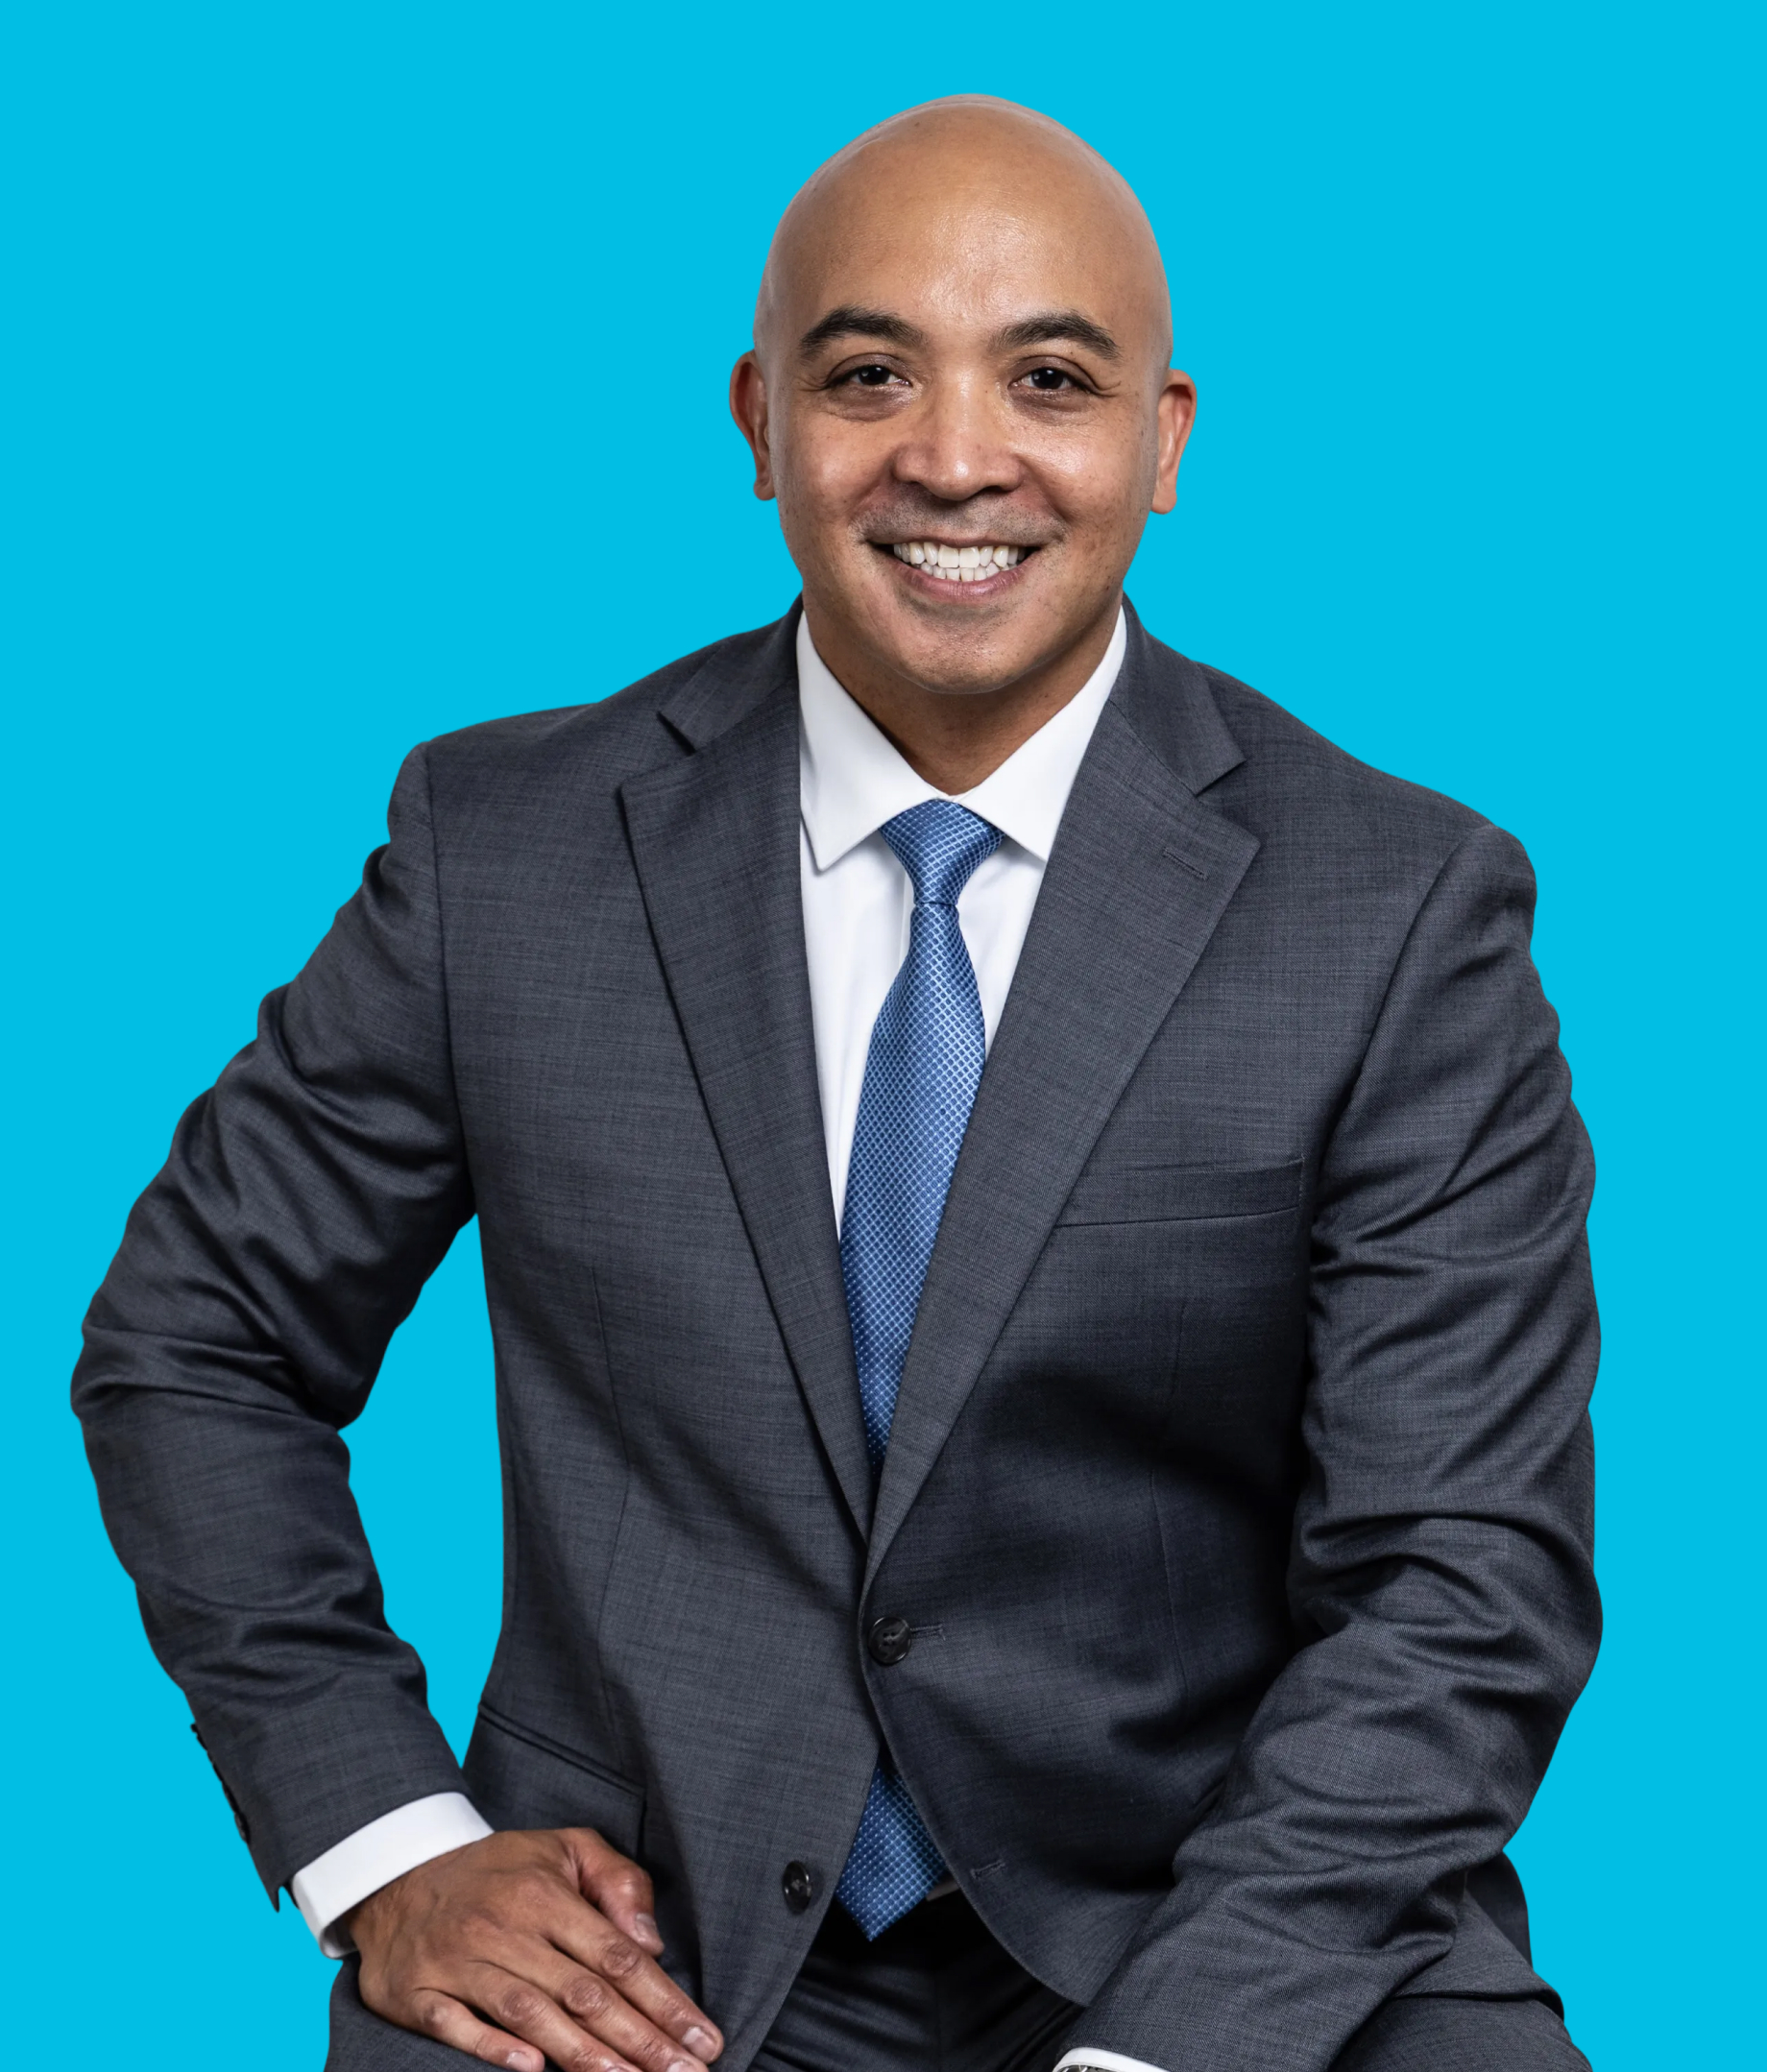
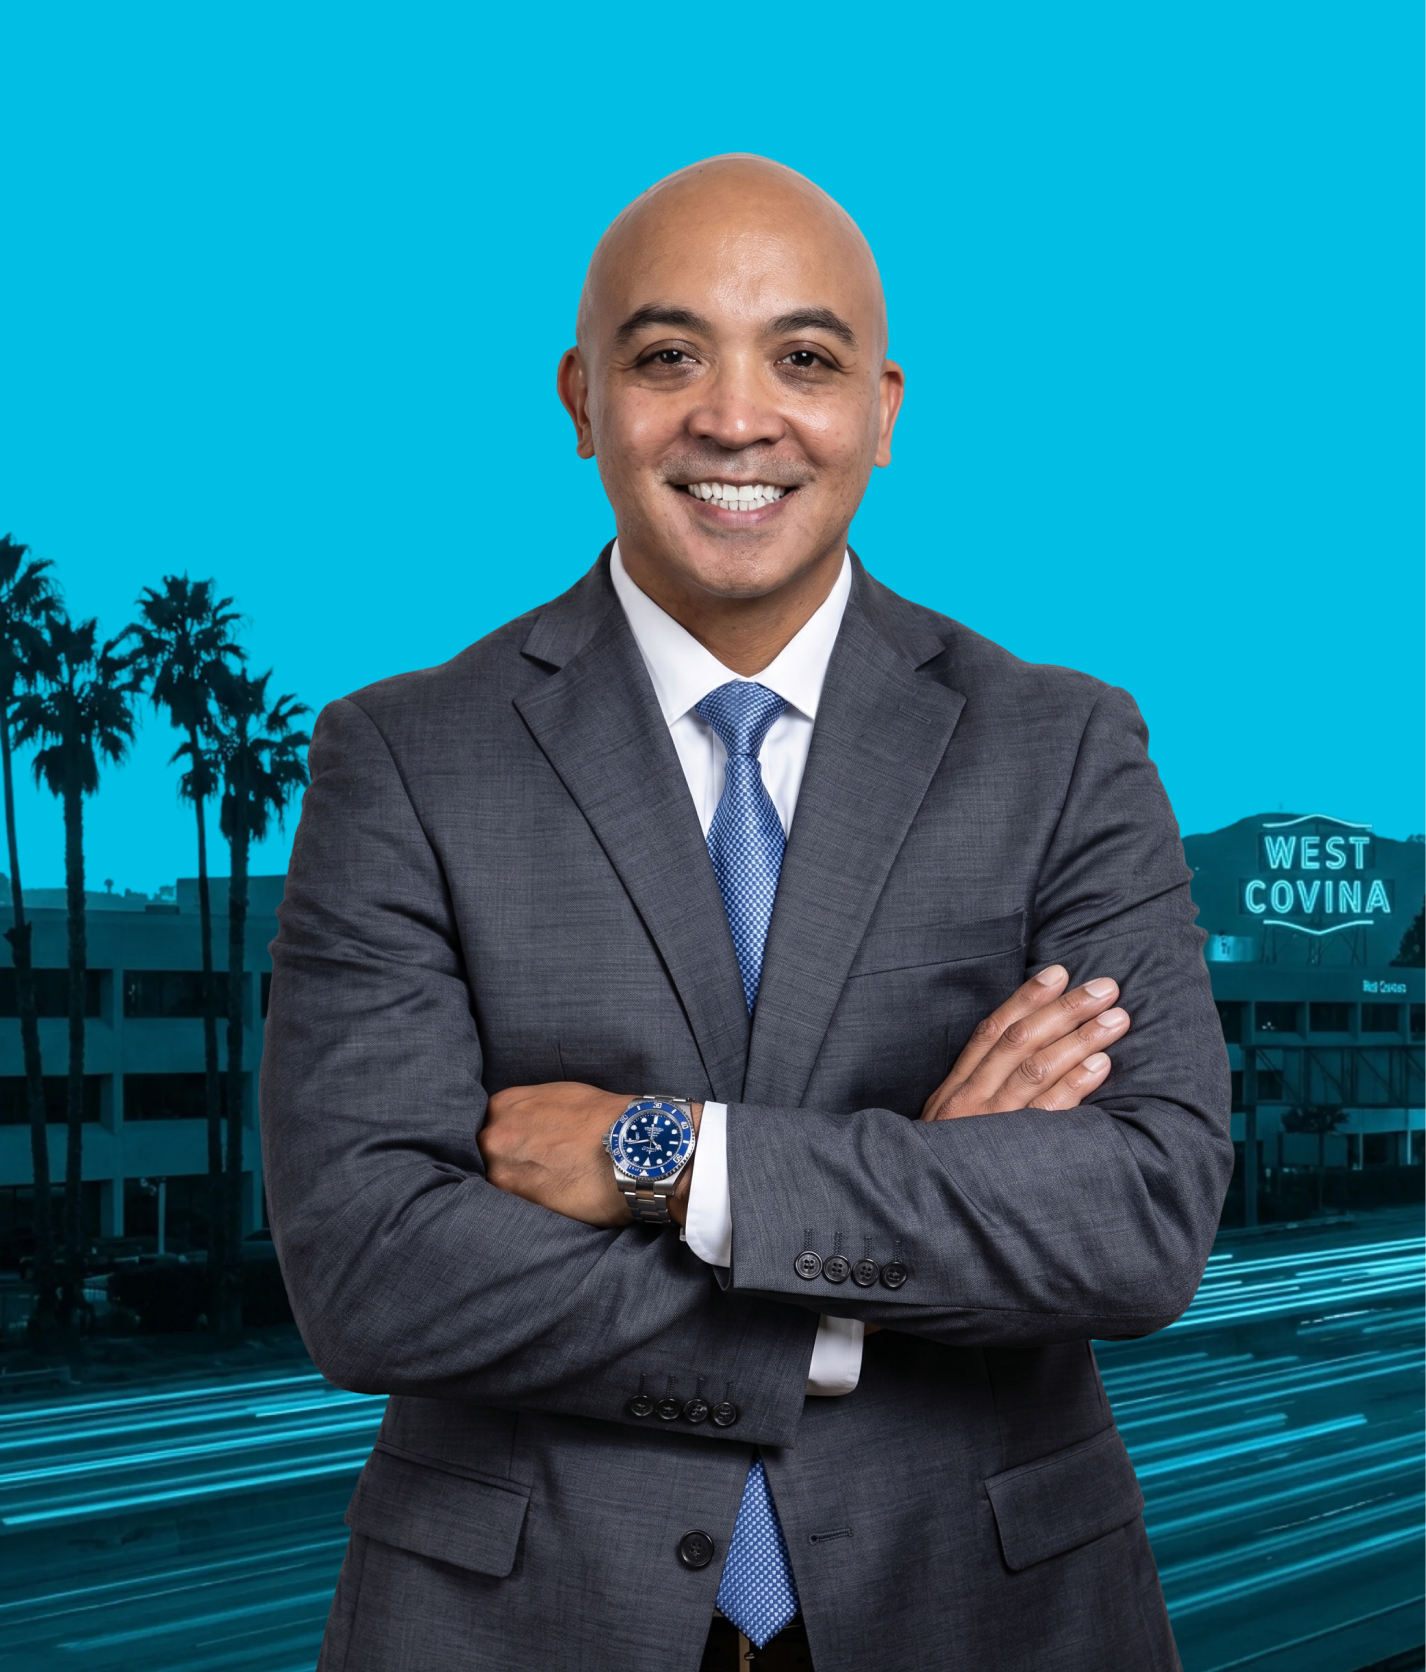
West Covina: rename podcast, nav, stats redesign, images
- Rename podcast to "Car Accident Playbook With Lem Garcia" across name,
  H1, meta title, and prose
- Nav: Episodes, Lem Garcia Law (firm site), About, Meet Lem Garcia (her
  site); Subscribe -> Contact button; new-tab handling on CTA
- Redesign StatsBanner into a balanced 4-stat band (rating, reviews,
  satisfaction, $100M+) with disclaimer as fine print
- About image -> about-bg.jpg; 1:1 episode hero art

diff --git a/src/themes/v1/components/StatsBanner.tsx b/src/themes/v1/components/StatsBanner.tsx
@@ -1,94 +1,90 @@
 'use client'
 
 import React from 'react'
-import { Star, ThumbsUp, Briefcase } from 'lucide-react'
+import { Car, MessageSquare, Star, ThumbsUp } from 'lucide-react'
 import { stats } from '@/data/siteData'
 
-const isPublishable = (text: string | undefined | null): text is string =>
-  !!text && text.trim() !== '' && !text.trim().startsWith('TODO')
-
-type StatCard = {
-  key: string
-  value: string
-  label: string
-  verb: string
-  bg: string
-  valueColor: string
-  iconColor: string
-  bodyColor: string
-  icon: React.ReactNode
-  iconFill?: boolean
+// Pull a leading metric token (e.g. "$100M+") out of a label so the real
+// number is the hero, with the remaining words as the caption.
+const splitLeadingMetric = (label?: string) => {
+  const m = /^(\$?[\d.,]+\s*[KMB]?\+?)\s+(.+)$/i.exec((label || '').trim())
+  return m ? { value: m[1].replace(/\s+/g, ''), label: m[2] } : null
 }
 
 const StatsBanner = () => {
-  const cards: StatCard[] = []
+  const recovery = splitLeadingMetric(stats.casesLabel)
 
-  if (stats.rating && Number(stats.rating) > 0) {
-    cards.push({
-      key: 'rating',
-      value: String(stats.rating),
-      label: 'Positive Reviews',
-      verb: isPublishable(stats.ratingVerbalization) ? stats.ratingVerbalization : '',
-      bg: 'bg-secondary',
-      valueColor: 'text-white',
-      iconColor: 'text-white',
-      bodyColor: 'text-white/85',
-      icon: <Star size={56} className="text-white" fill="currentColor" />,
-    })
+  const tiles = [
+    stats.rating
+      ? { value: String(stats.rating), label: 'Average Rating', Icon: Star }
+      : null,
+    stats.reviewCount
+      ? { value: String(stats.reviewCount), label: 'Client Reviews', Icon: MessageSquare }
+      : null,
+    stats.satisfactionRate && stats.satisfactionLabel
+      ? { value: `${stats.satisfactionRate}%`, label: stats.satisfactionLabel, Icon: ThumbsUp }
+      : null,
+    recovery && stats.casesVerbalization && !/TODO/i.test(stats.casesVerbalization)
+      ? { value: recovery.value, label: recovery.label, Icon: Car, outline: true }
+      : stats.casesHandled && stats.casesLabel
+        ? { value: `${stats.casesHandled}+`, label: stats.casesLabel, Icon: Car, outline: true }
+        : null,
+  ].filter(
+    (t): t is { value: string; label: string; Icon: typeof Star; outline?: boolean } => Boolean(t),
+  )
+
+  if (tiles.length === 0) {
+    return null
   }
 
-  if (stats.satisfactionRate && Number(stats.satisfactionRate) > 0 && stats.satisfactionLabel) {
-    cards.push({
-      key: 'satisfaction',
-      value: `${stats.satisfactionRate}%`,
-      label: stats.satisfactionLabel,
-      verb: isPublishable(stats.satisfactionVerbalization) ? stats.satisfactionVerbalization : '',
-      bg: 'bg-primary',
-      valueColor: 'text-secondary',
-      iconColor: 'text-secondary',
-      bodyColor: 'text-white/80',
-      icon: <ThumbsUp size={56} className="text-secondary" fill="currentColor" />,
-    })
-  }
+  const colsClass =
+    tiles.length <= 2
+      ? 'grid-cols-2 max-w-2xl'
+      : tiles.length === 3
+        ? 'grid-cols-1 sm:grid-cols-3 max-w-4xl'
+        : 'grid-cols-2 lg:grid-cols-4 max-w-5xl'
 
-  if (stats.casesHandled && Number(stats.casesHandled) > 0 && stats.casesLabel) {
-    cards.push({
-      key: 'cases',
-      value: `${stats.casesHandled}+`,
-      label: stats.casesLabel,
-      verb: isPublishable(stats.casesVerbalization) ? stats.casesVerbalization : '',
-      bg: 'bg-secondary',
-      valueColor: 'text-white',
-      iconColor: 'text-white',
-      bodyColor: 'text-white/85',
-      icon: <Briefcase size={56} className="text-white" />,
-    })
-  }
-
-  if (cards.length === 0) return null
-
-  const gridCols =
-    cards.length === 1 ? 'sm:grid-cols-1 md:grid-cols-1' :
-    cards.length === 2 ? 'sm:grid-cols-2 md:grid-cols-2' :
-    'sm:grid-cols-2 md:grid-cols-3'
+  const footnote = [stats.ratingVerbalization, stats.satisfactionVerbalization, stats.casesVerbalization]
+    .filter((t) => t && t.trim() && !/TODO/i.test(t))
+    .join('  ·  ')
 
   return (
-    <section className="bg-white py-0 md:py-12">
-      <div className="max-w-container mx-auto px-6 md:px-12">
-        <div className={`grid grid-cols-1 ${gridCols} gap-6`}>
-          {cards.map(card => (
-            <div key={card.key} className={`${card.bg} rounded-3xl px-6 py-8 md:px-5 md:py-10 text-left`}>
-              <div className="flex items-center justify-between mb-4 md:mb-6">
-                <span className={`${card.valueColor} text-4xl md:text-6xl font-bold`}>{card.value}</span>
-                {card.icon}
+    <section className="relative overflow-hidden bg-primary py-10 md:py-14">
+      {/* depth + accent ambience */}
+      <div aria-hidden className="absolute inset-0 bg-gradient-to-br from-[#1c2659] via-primary to-[#0d1338]" />
+      <div aria-hidden className="absolute -right-20 -top-28 h-96 w-96 rounded-full bg-secondary/15 blur-[110px]" />
+      <div aria-hidden className="absolute -bottom-32 -left-24 h-96 w-96 rounded-full bg-secondary/10 blur-[120px]" />
+      <div aria-hidden className="absolute inset-x-0 top-0 h-px bg-gradient-to-r from-transparent via-secondary/50 to-transparent" />
+
+      <div className="relative mx-auto max-w-container px-6 md:px-12">
+        <div className={`mx-auto grid ${colsClass} gap-x-6 gap-y-12`}>
+          {tiles.map(({ value, label, Icon, outline }) => (
+            <div key={label} className="group flex flex-col items-center text-center">
+              <div className="mb-5 inline-flex h-14 w-14 items-center justify-center rounded-2xl bg-secondary/15 text-secondary ring-1 ring-secondary/30 transition-colors duration-300 group-hover:bg-secondary group-hover:text-primary">
+                {outline ? (
+                  <Icon size={26} strokeWidth={2} />
+                ) : (
+                  <Icon size={24} fill="currentColor" strokeWidth={0} />
+                )}
               </div>
-              <p className="text-white text-xl md:text-2xl font-bold mb-3">{card.label}</p>
-              {card.verb && (
-                <p className={`${card.bodyColor} text-sm md:text-base leading-relaxed`}>{card.verb}</p>
-              )}
+              <span className="text-5xl font-extrabold leading-none tracking-tight text-secondary tabular-nums transition-transform duration-300 group-hover:-translate-y-0.5 md:text-6xl">
+                {value}
+              </span>
+              <span className="mt-3 text-sm font-semibold uppercase tracking-wide text-white/80 md:text-base">
+                {label}
+              </span>
             </div>
           ))}
         </div>
+
+        {footnote && (
+          <>
+            <div className="mx-auto mt-14 h-px max-w-3xl bg-gradient-to-r from-transparent via-white/15 to-transparent" />
+            <p className="mx-auto mt-6 max-w-3xl text-center text-xs leading-relaxed text-white/45">
+              {footnote}
+            </p>
+          </>
+        )}
       </div>
     </section>
   )

diff --git a/src/data/siteData.ts b/src/data/siteData.ts
@@ -4,7 +4,7 @@
  */
 
 export const siteConfig = {
-  "podcastName": "The Lem Garcia Accident Law Podcast",
+  "podcastName": "Car Accident Playbook With Lem Garcia",
   "tagline": "NEW EPISODE",
   "podcastUrl": "https://podcast-westcovinacaraccidentlawyer.vercel.app",
   "platformLinks": {
@@ -28,7 +28,7 @@ export const compliance = {
   "disclaimers": [
     {
       "kind": "general",
-      "text": "The information presented in The Lem Garcia Accident Law Podcast is general California legal information for educational purposes only and is not legal advice for your specific situation. Listening to this podcast does not create an attorney-client relationship with Lem Garcia or Lem Garcia Law - For Accidents and Injuries. For advice on your case, contact Lem Garcia Law at (626) 337-1111 for a free consultation."
+      "text": "The information presented in Car Accident Playbook With Lem Garcia is general California legal information for educational purposes only and is not legal advice for your specific situation. Listening to this podcast does not create an attorney-client relationship with Lem Garcia or Lem Garcia Law - For Accidents and Injuries. For advice on your case, contact Lem Garcia Law at (626) 337-1111 for a free consultation."
     },
     {
       "kind": "advertising",
@@ -57,7 +57,7 @@ export const attorney = {
   "bio": [
     "Lem Garcia is a dedicated personal injury attorney serving West Covina and the greater San Gabriel Valley with a commitment to fighting for accident victims' rights. With extensive experience handling complex car accident, truck collision, and wrongful death cases, Lem Garcia has built a reputation for aggressive advocacy and compassionate client service. Lem Garcia understands that accidents can devastate families financially, physically, and emotionally, which is why Lem Garcia Law approaches each case with personalized attention and a determination to secure maximum compensation.",
     "Throughout his legal career, Lem Garcia has successfully represented hundreds of clients injured in motor vehicle accidents, pedestrian collisions, bicycle accidents, and premises liability cases. Lem Garcia's deep knowledge of California personal injury law, combined with his understanding of the local West Covina court system and insurance company tactics, allows him to build compelling cases that deliver results. Lem Garcia takes pride in being accessible to clients, explaining complex legal processes in clear terms, and keeping families informed every step of the way.",
-    "Beyond his legal practice, Lem Garcia is passionate about educating the West Covina community on accident prevention and legal rights through The Lem Garcia Accident Law Podcast. This platform allows Lem Garcia to share valuable insights, answer common questions, and empower listeners with knowledge that can protect them before and after an accident occurs. When not advocating for clients or recording podcast episodes, Lem Garcia is actively involved in the West Covina community and committed to making local roads safer for everyone."
+    "Beyond his legal practice, Lem Garcia is passionate about educating the West Covina community on accident prevention and legal rights through Car Accident Playbook With Lem Garcia. This platform allows Lem Garcia to share valuable insights, answer common questions, and empower listeners with knowledge that can protect them before and after an accident occurs. When not advocating for clients or recording podcast episodes, Lem Garcia is actively involved in the West Covina community and committed to making local roads safer for everyone."
   ],
   "signature": "/images/signature.png",
   "photo": "/images/attorney.jpg"
@@ -101,17 +101,17 @@ export const chapters = [
 export const faqGroups = [
   {
     "label": "About The Podcast",
-    "description": "Common questions about The Lem Garcia Accident Law Podcast and what listeners can expect from each episode.",
+    "description": "Common questions about Car Accident Playbook With Lem Garcia and what listeners can expect from each episode.",
     "questions": [
       {
-        "question": "What is The Lem Garcia Accident Law Podcast about?",
+        "question": "What is Car Accident Playbook With Lem Garcia about?",
         "level": "h2",
-        "answer": "The Lem Garcia Accident Law Podcast provides valuable insights into personal injury law, accident prevention, and legal rights for injury victims in West Covina and throughout California. Lem Garcia shares his extensive experience handling car accidents, truck collisions, motorcycle crashes, and other personal injury cases to help listeners understand their legal options and protect their rights after an accident."
+        "answer": "Car Accident Playbook With Lem Garcia provides valuable insights into personal injury law, accident prevention, and legal rights for injury victims in West Covina and throughout California. Lem Garcia shares his extensive experience handling car accidents, truck collisions, motorcycle crashes, and other personal injury cases to help listeners understand their legal options and protect their rights after an accident."
       },
       {
         "question": "How Often are New Episodes Released?",
         "level": "h3",
-        "answer": "New episodes of The Lem Garcia Accident Law Podcast are released weekly, covering timely topics in personal injury law, recent case developments, and practical advice for accident victims. Each episode is designed to be informative yet accessible, typically running 20-30 minutes to fit into your busy schedule."
+        "answer": "New episodes of Car Accident Playbook With Lem Garcia are released weekly, covering timely topics in personal injury law, recent case developments, and practical advice for accident victims. Each episode is designed to be informative yet accessible, typically running 20-30 minutes to fit into your busy schedule."
       },
       {
         "question": "Who Should Listen to this Podcast?",
@@ -137,7 +137,7 @@ export const faqGroups = [
       {
         "question": "Does the Podcast Discuss California-Specific Laws?",
         "level": "h3",
-        "answer": "Yes, The Lem Garcia Accident Law Podcast focuses extensively on California personal injury laws, including statutes of limitations, comparative negligence rules, and insurance requirements specific to West Covina and the greater Los Angeles area. Lem Garcia explains how California laws affect injury victims' rights and the claims process in terms that are easy to understand."
+        "answer": "Yes, Car Accident Playbook With Lem Garcia focuses extensively on California personal injury laws, including statutes of limitations, comparative negligence rules, and insurance requirements specific to West Covina and the greater Los Angeles area. Lem Garcia explains how California laws affect injury victims' rights and the claims process in terms that are easy to understand."
       },
       {
         "question": "Will the Podcast Help Me Understand My Own Accident Case?",
@@ -149,11 +149,11 @@ export const faqGroups = [
 ];
 
 export const content = {
-  "heroTitle": "The Lem Garcia Accident Law Podcast",
+  "heroTitle": "Car Accident Playbook With Lem Garcia",
   "heroDescription": "Join West Covina personal injury attorney Lem Garcia as he breaks down complex legal topics, shares insider knowledge about accident claims, and answers the questions that matter most to injury victims throughout the San Gabriel Valley. Each episode delivers practical advice, real-world case insights, and empowering information to help you understand your rights and navigate the personal injury legal system with confidence.",
   "articleTitle": "Your Trusted Voice for Personal Injury Legal Guidance",
   "articleParagraphs": [
-    "The Lem Garcia Accident Law Podcast was created to bridge the gap between complex legal concepts and the everyday people who need to understand them most. After years of representing accident victims in West Covina and witnessing the confusion and anxiety that often accompanies the claims process, Lem Garcia recognized the need for accessible, honest legal education. This podcast serves as a resource for anyone who has been injured in an accident, is concerned about their legal rights, or simply wants to be prepared should the unexpected happen.",
+    "Car Accident Playbook With Lem Garcia was created to bridge the gap between complex legal concepts and the everyday people who need to understand them most. After years of representing accident victims in West Covina and witnessing the confusion and anxiety that often accompanies the claims process, Lem Garcia recognized the need for accessible, honest legal education. This podcast serves as a resource for anyone who has been injured in an accident, is concerned about their legal rights, or simply wants to be prepared should the unexpected happen.",
     "Each episode tackles real issues facing accident victims in California, from understanding fault determination on West Covina's busy streets to negotiating with major insurance carriers. Lem Garcia draws on extensive courtroom experience and actual case examples to illustrate key points, making complex legal principles understandable and actionable. Whether you are dealing with a recent car accident on the I-10, considering a claim after a slip and fall, or seeking justice for a loved one in a wrongful death case, this podcast provides the knowledge you need to make informed decisions about your legal options."
   ],
   "featuredQuote": "Knowledge is power when it comes to protecting your rights after an accident. My goal is to arm every listener with the information they need to level the playing field against insurance companies and get the justice they deserve.",
@@ -242,27 +242,27 @@ export const navigation: {
       "href": "#episodes"
     },
     {
+      "name": "Lem Garcia Law",
+      "href": "https://www.lemgarcialaw.com/",
+      "external": true
+    },
+    {
       "name": "About",
       "href": "#about"
     },
     {
-      "name": "Contact",
-      "href": "https://www.lemgarcialaw.com/contact/",
-      "external": true
-    },
-    {
       "name": "Meet Lem Garcia",
-      "href": "https://lemgarcia.attorney",
+      "href": "https://www.lemgarcia.attorney/",
       "external": true
     }
   ],
-  "ctaText": "Subscribe",
-  "ctaHref": "#subscribe"
+  "ctaText": "Contact",
+  "ctaHref": "https://www.lemgarcialaw.com/contact/"
 };
 
 export const footer = {
   "logo": "Lem Garcia Law",
-  "description": "The Lem Garcia Accident Law Podcast delivers essential legal insights and practical advice for accident victims throughout West Covina and the San Gabriel Valley. Subscribe to stay informed about your rights, learn from real case experiences, and get answers to your most pressing personal injury questions from an experienced attorney who fights for justice.",
+  "description": "Car Accident Playbook With Lem Garcia delivers essential legal insights and practical advice for accident victims throughout West Covina and the San Gabriel Valley. Subscribe to stay informed about your rights, learn from real case experiences, and get answers to your most pressing personal injury questions from an experienced attorney who fights for justice.",
   "copyright": "Lem Garcia Law",
   "socialLinks": {
     "facebook": "#",
@@ -299,7 +299,7 @@ export const awards = [
 
 export const about = {
   "title": "About Lem Garcia and The Accident Law Podcast",
-  "description": "Lem Garcia is a dedicated personal injury attorney serving West Covina, California, and surrounding communities. With years of experience representing accident victims, Lem Garcia created The Lem Garcia Accident Law Podcast to educate the public about their legal rights and provide valuable insights into the personal injury claims process. Through clear explanations and real-world examples, Lem Garcia helps listeners understand complex legal concepts and empowers them to make informed decisions after an accident. Whether you've been injured in a car crash, motorcycle collision, or slip and fall incident, this podcast offers practical guidance from an attorney who has successfully recovered millions of dollars for injury victims throughout Southern California.",
+  "description": "Lem Garcia is a dedicated personal injury attorney serving West Covina, California, and surrounding communities. With years of experience representing accident victims, Lem Garcia created Car Accident Playbook With Lem Garcia to educate the public about their legal rights and provide valuable insights into the personal injury claims process. Through clear explanations and real-world examples, Lem Garcia helps listeners understand complex legal concepts and empowers them to make informed decisions after an accident. Whether you've been injured in a car crash, motorcycle collision, or slip and fall incident, this podcast offers practical guidance from an attorney who has successfully recovered millions of dollars for injury victims throughout Southern California.",
   "highlights": [
     "Extensive experience handling car accidents, truck collisions, motorcycle crashes, and other personal injury cases in West Covina and throughout California",
     "Over $100 million recovered in compensation for personal injury clients",
@@ -313,7 +313,7 @@ export const about = {
 
 export const subscribeCTA = {
   "title": "Never Miss an Episode",
-  "description": "Subscribe to The Lem Garcia Accident Law Podcast and receive weekly insights into personal injury law, accident prevention, and legal rights for injury victims in California. Each episode provides valuable information that can help you understand the claims process, avoid common mistakes, and protect your rights after an accident. Join thousands of listeners who trust Lem Garcia for clear, practical legal guidance.",
+  "description": "Subscribe to Car Accident Playbook With Lem Garcia and receive weekly insights into personal injury law, accident prevention, and legal rights for injury victims in California. Each episode provides valuable information that can help you understand the claims process, avoid common mistakes, and protect your rights after an accident. Join thousands of listeners who trust Lem Garcia for clear, practical legal guidance.",
   "highlights": [
     "Weekly episodes covering car accidents, truck collisions, motorcycle crashes, and other personal injury topics",
     "Insights from an attorney who has recovered over $100 million for injury victims",
@@ -388,7 +388,7 @@ export const podcastTeam = [
     "role": "Host & Personal Injury Attorney",
     "photo": "/images/team-member.jpg",
     "slug": "lem-garcia",
-    "bio": "Lem Garcia is a dedicated personal injury attorney serving West Covina and throughout California. With extensive experience representing accident victims and a passion for legal education, Lem Garcia hosts The Lem Garcia Accident Law Podcast to help injury victims understand their rights and navigate the claims process with confidence.",
+    "bio": "Lem Garcia is a dedicated personal injury attorney serving West Covina and throughout California. With extensive experience representing accident victims and a passion for legal education, Lem Garcia hosts Car Accident Playbook With Lem Garcia to help injury victims understand their rights and navigate the claims process with confidence.",
     "episodes": "Host of all episodes"
   }
 ];
@@ -710,7 +710,7 @@ export const authorProfiles: Record<string, {
     bio: [
       "Lem Garcia is a dedicated personal injury attorney serving West Covina and the greater San Gabriel Valley with a commitment to fighting for accident victims' rights. With extensive experience handling complex car accident, truck collision, and wrongful death cases, Lem Garcia has built a reputation for aggressive advocacy and compassionate client service. Lem Garcia understands that accidents can devastate families financially, physically, and emotionally, which is why Lem Garcia Law approaches each case with personalized attention and a determination to secure fair compensation.",
       "Throughout his legal career, Lem Garcia has successfully represented hundreds of clients injured in motor vehicle accidents, pedestrian collisions, bicycle accidents, and premises liability cases. Lem Garcia's deep knowledge of California personal injury law, combined with his understanding of the local West Covina court system and insurance company tactics, allows him to build compelling cases that deliver results. Lem Garcia takes pride in being accessible to clients, explaining complex legal processes in clear terms, and keeping families informed every step of the way.",
-      "Beyond his legal practice, Lem Garcia is passionate about educating the West Covina community on accident prevention and legal rights through The Lem Garcia Accident Law Podcast. This platform allows Lem Garcia to share valuable insights, answer common questions, and empower listeners with knowledge that can protect them before and after an accident occurs. When not advocating for clients or recording podcast episodes, Lem Garcia is actively involved in the West Covina community and committed to making local roads safer for everyone."
+      "Beyond his legal practice, Lem Garcia is passionate about educating the West Covina community on accident prevention and legal rights through Car Accident Playbook With Lem Garcia. This platform allows Lem Garcia to share valuable insights, answer common questions, and empower listeners with knowledge that can protect them before and after an accident occurs. When not advocating for clients or recording podcast episodes, Lem Garcia is actively involved in the West Covina community and committed to making local roads safer for everyone."
 ],
     memberships: [],
     socialLinks: [],

diff --git a/src/themes/v1/components/EpisodeHero.tsx b/src/themes/v1/components/EpisodeHero.tsx
@@ -125,12 +125,12 @@ const EpisodeHero = ({ episode: propEpisode }: EpisodeHeroProps) => {
             </div>
 
             {/* Right Image — Episode Thumbnail */}
-            <div className="relative w-full h-[280px] md:h-[380px] flex items-center justify-center">
-              <div className="w-full h-full rounded-2xl overflow-hidden">
+            <div className="relative w-full flex items-center justify-center">
+              <div className="w-full max-w-[480px] mx-auto aspect-square rounded-2xl overflow-hidden">
                 <img
                   src={coverImage}
                   alt={ep.title}
-                  className="w-full h-full object-cover object-top"
+                  className="w-full h-full object-cover"
                 />
               </div>
             </div>

diff --git a/src/themes/v1/components/Header.tsx b/src/themes/v1/components/Header.tsx
@@ -71,6 +71,8 @@ const Header = ({ variant = 'dark' }: HeaderProps) => {
         <div className="hidden md:flex items-center">
           <Link
             href={navigation.ctaHref.startsWith('#') ? `/${navigation.ctaHref}` : navigation.ctaHref}
+            target={/^https?:\/\//.test(navigation.ctaHref) ? '_blank' : undefined}
+            rel={/^https?:\/\//.test(navigation.ctaHref) ? 'noopener noreferrer' : undefined}
             className={`px-6 py-2.5 rounded-lg text-base font-semibold ${buttonBg} transition-all`}
           >
             {navigation.ctaText}
@@ -117,6 +119,8 @@ const Header = ({ variant = 'dark' }: HeaderProps) => {
           })}
           <Link
             href={navigation.ctaHref.startsWith('#') ? `/${navigation.ctaHref}` : navigation.ctaHref}
+            target={/^https?:\/\//.test(navigation.ctaHref) ? '_blank' : undefined}
+            rel={/^https?:\/\//.test(navigation.ctaHref) ? 'noopener noreferrer' : undefined}
             className={`flex items-center justify-center px-6 py-3 rounded-lg text-base font-semibold ${buttonBg}`}
             onClick={() => setIsMenuOpen(false)}
           >

diff --git a/src/themes/v1/components/About.tsx b/src/themes/v1/components/About.tsx
@@ -84,7 +84,7 @@ const About = () => {
           {/* Right Image */}
           <div className="w-full h-[480px] md:h-[580px] rounded-2xl overflow-hidden">
             <img
-              src="/about-placehoder.jpg"
+              src="/about-bg.jpg"
               alt={about.title}
               className="w-full h-full object-cover"
             />